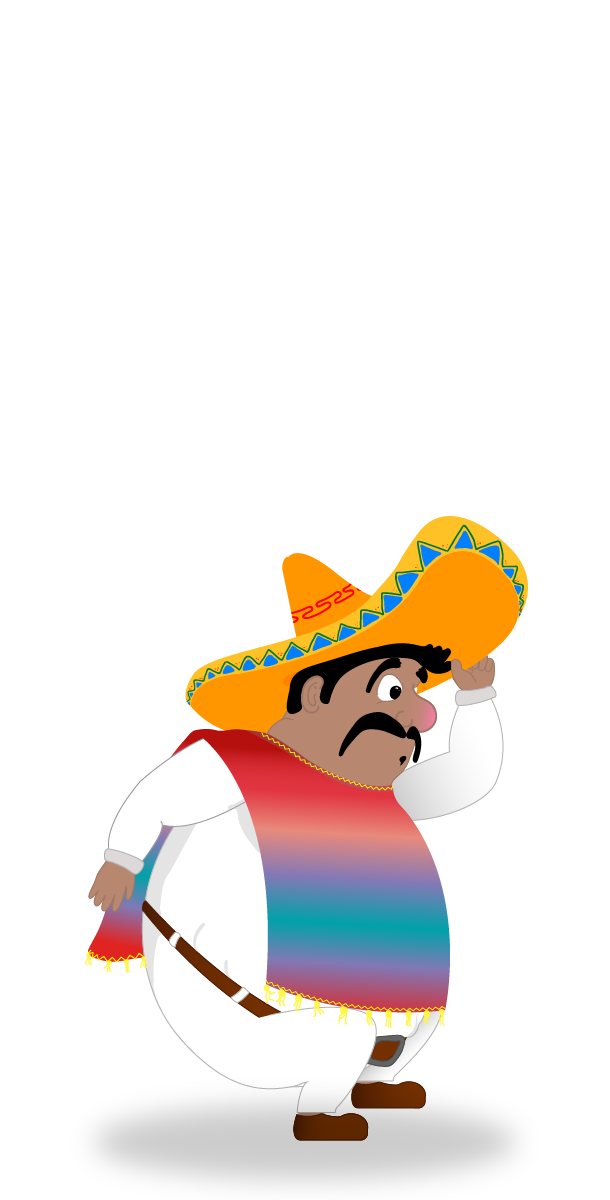
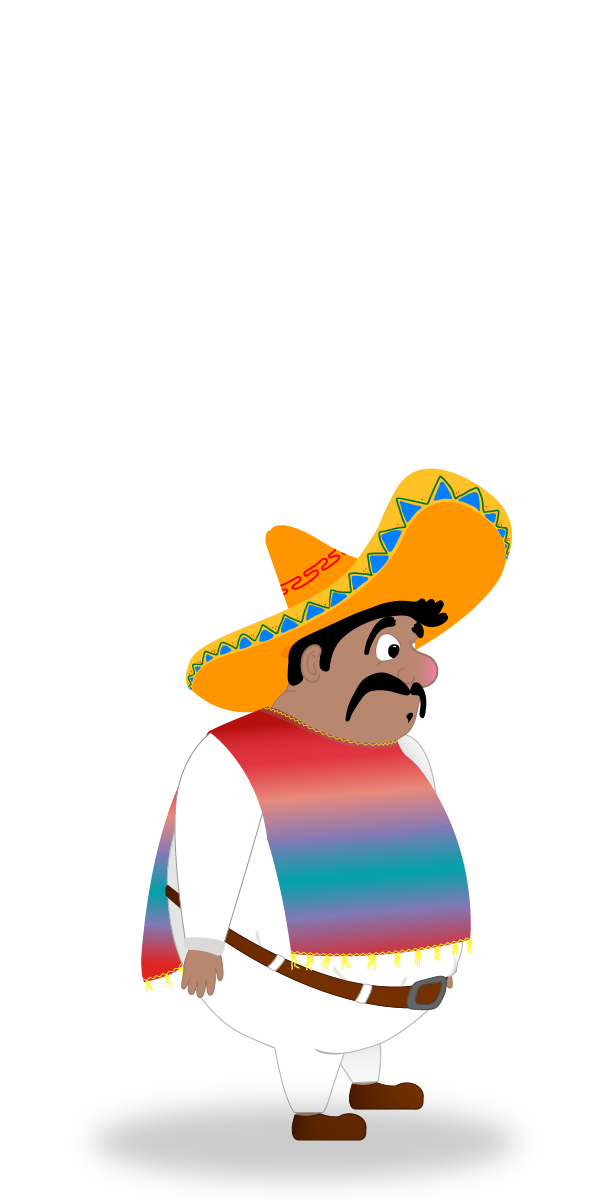
fixed jumpa animation

Changed region(s): [[0.1246, 0.37, 0.8721, 0.9558], [0.4672, 0.8942, 0.4984, 0.9558]]

diff --git a/models/moveable-object.class.js b/models/moveable-object.class.js
@@ -17,8 +17,6 @@ class MoveableObject extends DrawableObject {
         this.world = world;
     }
 
-
-
     applyGravity(){
         this.gravityIntervall = setInterval(() => {
             if(this.isAboveGround() || this.speedY > 0){
@@ -44,22 +42,18 @@ class MoveableObject extends DrawableObject {
             this.y + this.offset.top < mo.y + mo.height - mo.offset.bottom
         );
     }
-    
+
     isCollidingJump(enemy) {
         const characterBottom = this.y + this.height;
-        const enemyTop = enemy.y;
-    
-        const horizontalBuffer = 30; // Mehr Spielraum nach links und rechts
-        const verticalBuffer = 30;   // Mehr Spielraum von oben
-    
+        const enemyTop = enemy.y;    
+        const horizontalBuffer = 30; 
+        const verticalBuffer = 30;    
         const horizontalOverlap =
             (this.x + this.width) > (enemy.x - horizontalBuffer) &&
-            this.x < (enemy.x + enemy.width + horizontalBuffer);
-    
+            this.x < (enemy.x + enemy.width + horizontalBuffer);    
         const verticalContact =
             characterBottom > (enemyTop - verticalBuffer) &&
-            characterBottom < (enemyTop + verticalBuffer);
-    
+            characterBottom < (enemyTop + verticalBuffer);    
         return horizontalOverlap && verticalContact && this.speedY < 0;
     }
    
@@ -90,9 +84,11 @@ class MoveableObject extends DrawableObject {
     }
 
     moveLeft(speed, time){        
-        setInterval(() => {
-            this.x -= speed;
-        }, time);        
+        this.moveLeftInterval = setInterval(() => {
+            if (!this.world || !this.world.paused) {
+                this.x -= speed;  
+            }                      
+        }, time);      
     }    
 
     moveRight() {

diff --git a/models/character.class.js b/models/character.class.js
@@ -71,6 +71,7 @@ class Character extends MoveableObject {
             };
             this.world.camera_x = -this.x + 100
             if (this.world.keyboard.UP && !this.isAboveGround() || this.world.keyboard.SPACE && !this.isAboveGround()) {
+                this.jumpAnima = true;
                 this.jump();
                 this.audio_jump.play(); 
             }
@@ -99,14 +100,16 @@ class Character extends MoveableObject {
     }
 
     jumpAnimation() {
-        if(this.jumpFrame<8){
-            this.playAnimation(this.images_jumping);
-            this.jumpFrame++
+        if(this.jumpFrame < (this.images_jumping.length - 1)){
+            let image = this.images_jumping[this.jumpFrame];
+            this.img = this.imageCache[image];
+            this.jumpFrame++;
         }else{
             this.jumpAnima = false;
             this.jumpFrame = 0;
         }
         console.log(this.jumpFrame);
+        console.log(this.jumpAnima);
         
         
     }

diff --git a/index.html b/index.html
@@ -40,9 +40,9 @@
     <canvas id="canvas" width="720px" height="480px" class="d-none">
     </canvas>
     <div class="control-container">
-        <span>move left/right: arrow-keys</span>
-        <span>jump: arrow-up/space</span>
-        <span>throw bottle: left ctrl</span>
+        <span>arrow left/right: move</span>
+        <span>arrow-up/space: jump</span>
+        <span>l-ctrl: throw bottle</span>
     </div>
     
 </body>

diff --git a/script/game.js b/script/game.js
@@ -15,7 +15,6 @@ function startGame() {
     initLevel();
     canvas = document.getElementById('canvas');
     world = new World (canvas, keyboard);  
-    console.log(world.gameOver);    
 }
 
 document.addEventListener('keydown', event => {

diff --git a/models/world.class.js b/models/world.class.js
@@ -35,6 +35,7 @@ class World {
         if(this.keyboard.P) {
             this.paused = !this.paused;
             this.draw();
+            clearInterval(this.moveableObject.moveLeftInterval);
         }
     }
 
